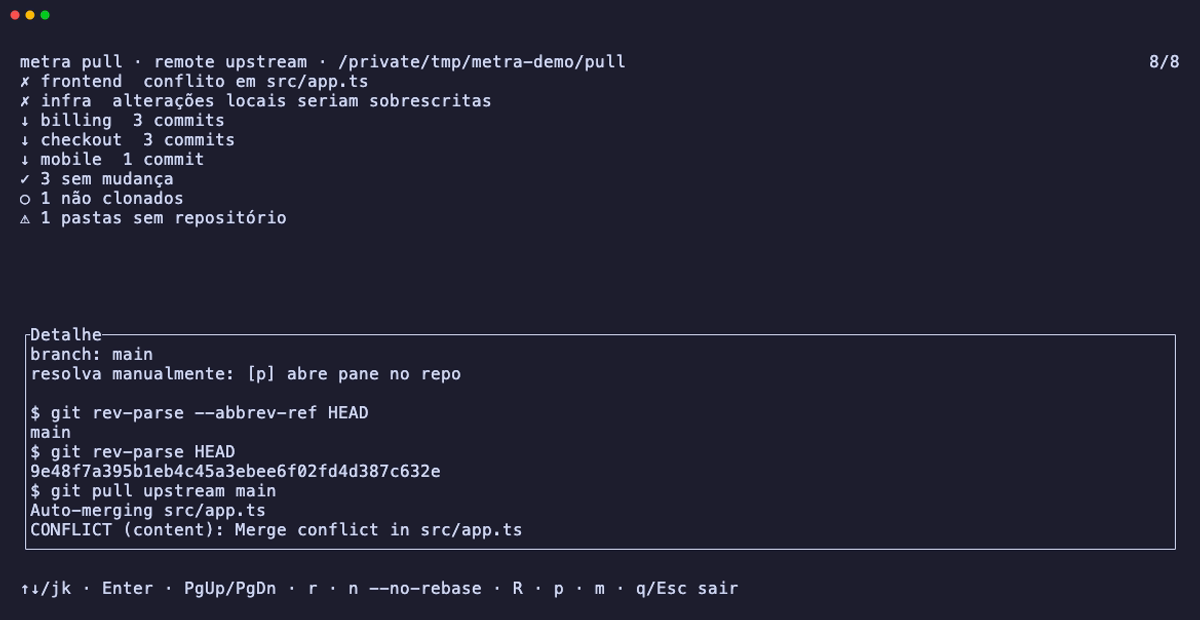
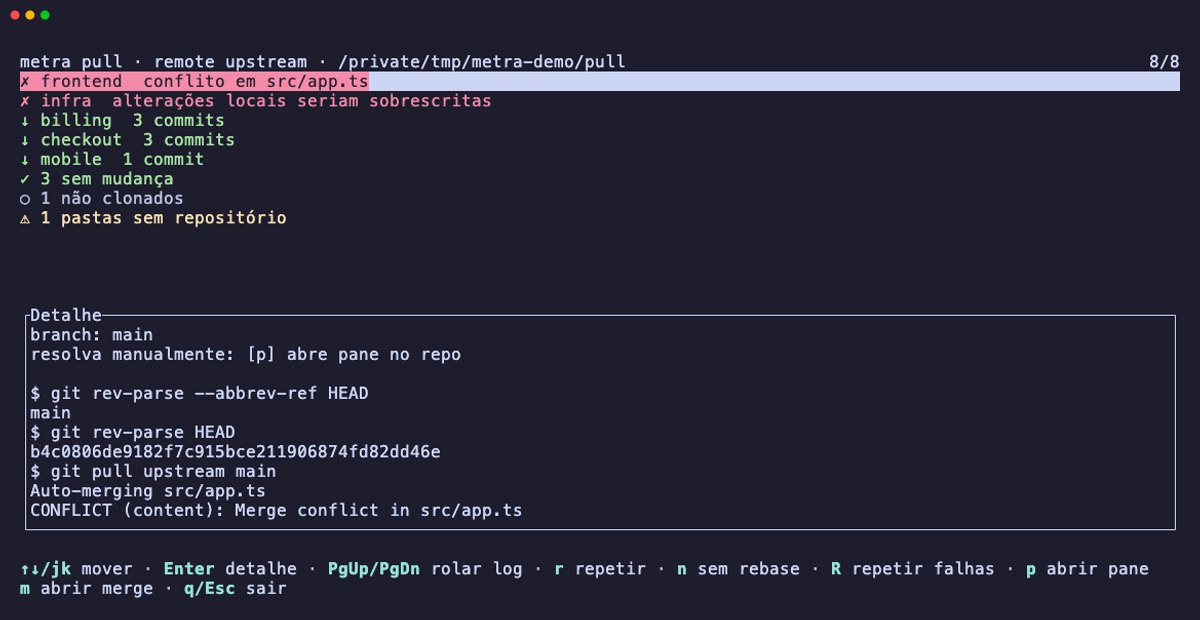
docs: demos coloridas sem -j e gif do herdr

Changed region(s): [[0.0, 0.4903, 0.9867, 0.9806], [0.0, 0.0919, 0.9867, 0.3065], [0.0308, 0.3371, 0.2467, 0.3677]]

diff --git a/README.md b/README.md
@@ -80,6 +80,12 @@ O código de saída é `0` sem falhas, `1` com falhas e `2` para erro de argumen
 | `Esc` | Fecha o detalhe; sem detalhe aberto, sai |
 | `q` | Sai aguardando as tarefas; pressionado de novo, aborta |
 
+Dentro do [herdr](https://herdr.dev), `p` abre um pane abaixo do metra já na pasta do repositório selecionado, para resolver a falha sem sair da tela:
+
+<div align="center">
+<img src="docs/assets/herdr.gif" alt="metra pull dentro do herdr: a tecla p abre um pane na pasta do frontend, onde git status e git diff mostram o conflito" width="900">
+</div>
+
 Descoberta, tipos de falha, atalhos, saída, execução segura e logs estão detalhados na [referência](docs/referencia.md).
 
 ## Desenvolvimento
